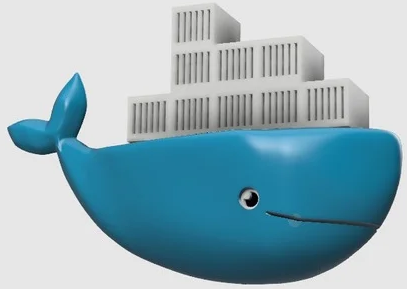
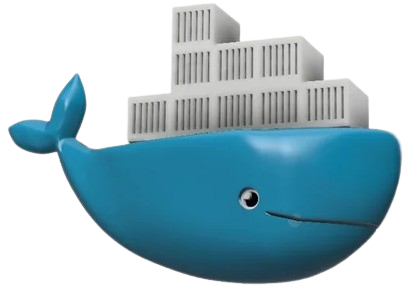
Docker 설치 3d image 수정

diff --git a/_posts/Rocky Linux/2025-03-28-Docker 설치.md b/_posts/Rocky Linux/2025-03-28-Docker 설치.md
@@ -21,7 +21,7 @@ NAME="Rocky Linux"
 VERSION="8.10 (Green Obsidian)"
 ```
 
-## Docker 설치
+## <img src="https://github.com/hyundo0630/hyundo0630.github.io/blob/main/images/Docker%20%EA%B4%80%EB%A0%A8/docker%203d%20image.png?raw=true"> Docker Install
 
 <br><br>
 <div style="text-align:center;">
